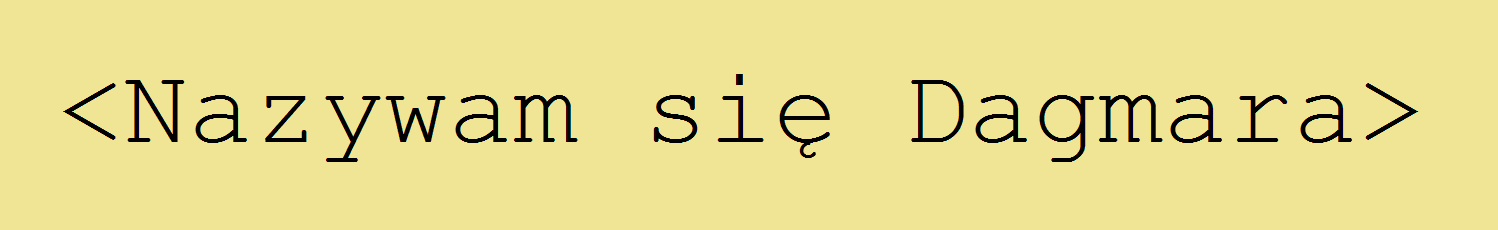
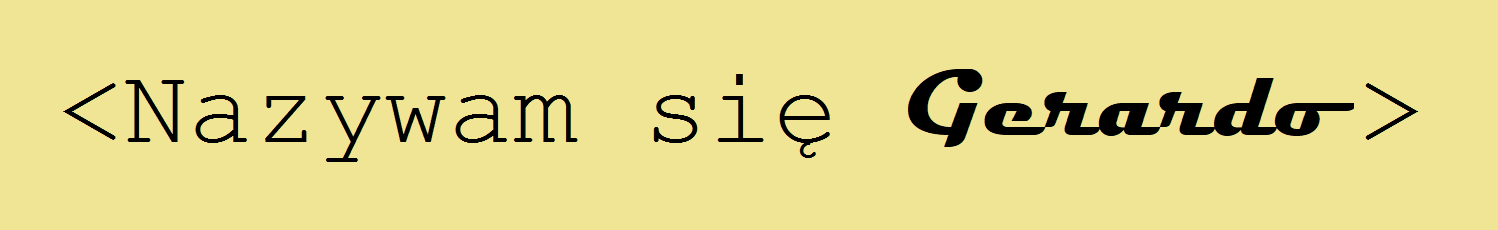
Gerardo: new branch portfolioDagaGTSremote

Changed region(s): [[0.5834, 0.3043, 0.9212, 0.7]]

diff --git a/index.html b/index.html
@@ -4,7 +4,7 @@
 	<meta charset="utf-8" >
 	<meta http-equiv="X-UA-Compatilble" content="IE=edge,chrome=1" >
 	
-	<title>Portfolio - Dagmara L.</title>
+	<title>Portfolio - Gerardo ;P</title>
 	
 	<meta name="description" content="Pierwsze portfolio początkującej programistki." >
 	<meta name="keywords" content="portfolio, html, html5, css, javascript, programista" >
@@ -18,7 +18,7 @@
 	
 	<header id="foto">
 		<div id="slide">
-			<img src="nazywamsie.png" alt="Nazywam się Dagmara" id="nazywam_sie">
+			<img src="nazywamsie.png" alt="Nazywam się Gerardo" id="nazywam_sie">
 			<img src="ichce.png" alt="I chcę pracować w Inwedo" id="inwedo">
 		</div> 
 	</header>
